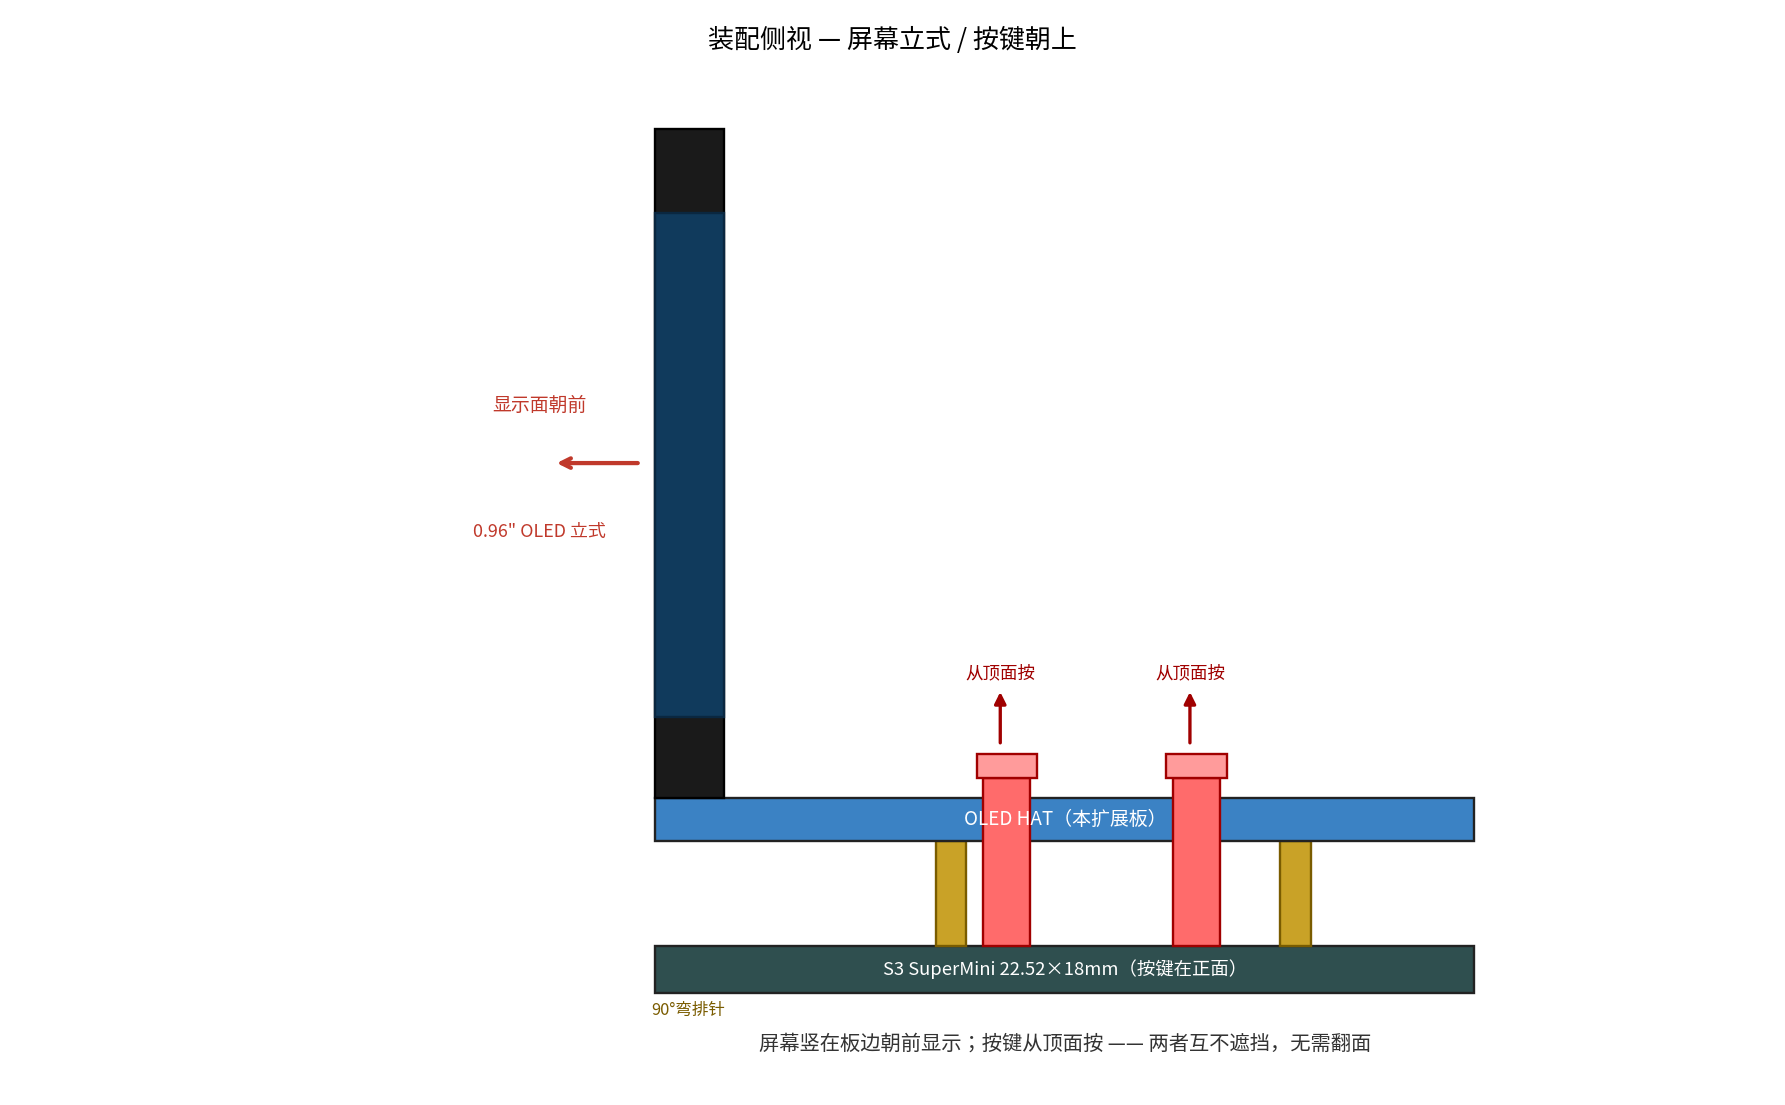
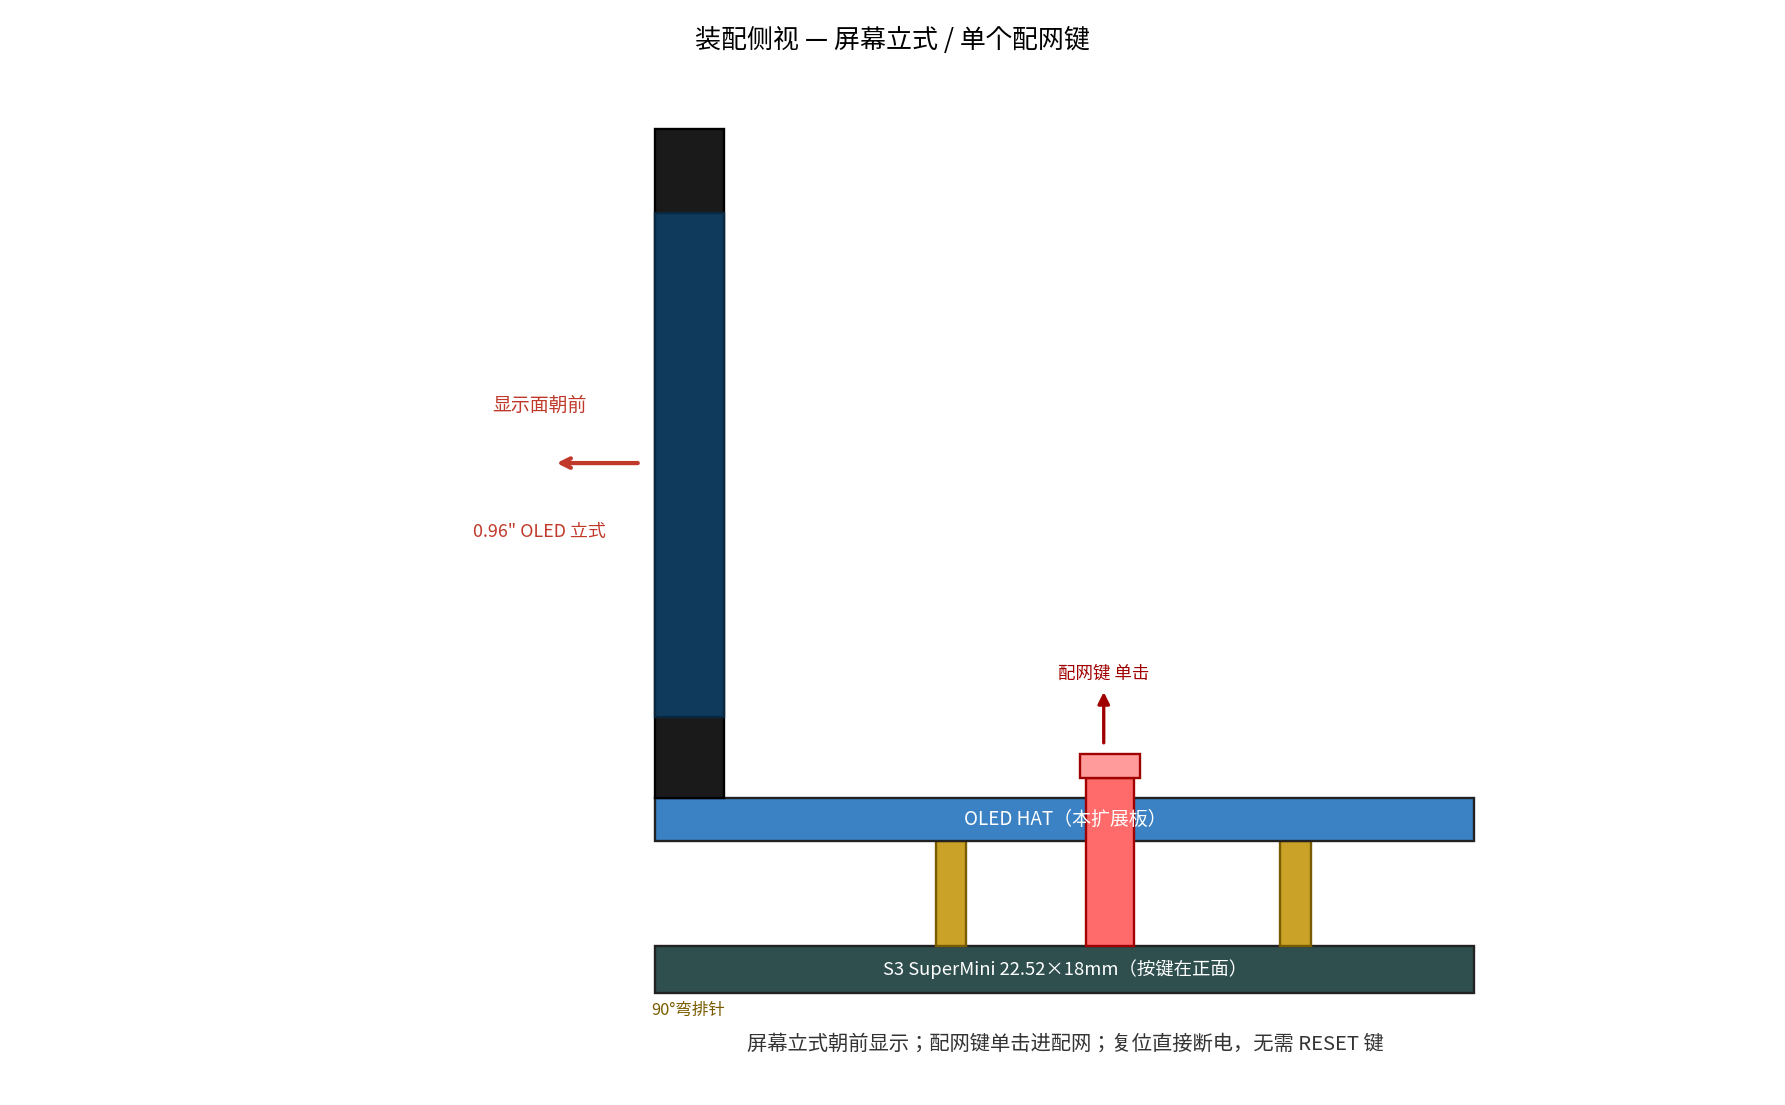
OLED扩展板去掉RESET键:复位靠断电,只留单个配网键
- BTN 从 RESET/BOOT 两键改为只剩 BOOT(标注CFG)一个配网键孔
- 复位不设按键,直接断电重新上电即可
- Gerber 钻孔 24->23(排针18+OLED4+配网键1),丝印标注 CFG
- 重绘顶视/装配侧视图,README 更新按键说明与焊接步骤
- 已复核 23 孔坐标唯一、5 层 Gerber 结束符规范

diff --git a/pcb-oled-hat/generate_pcb.py b/pcb-oled-hat/generate_pcb.py
@@ -10,13 +10,13 @@ QModem OLED HAT — ESP32-S3 SuperMini 专用 0.96" IIC OLED 扩展板
   下排(Y=+7.62,左->右): TX RX 1 2 3 4 5 6 7
   注: 数字即 GPIO 号(IO1~IO13),TX/RX 为 USB 转串口占用,避免占用
 
-扩展板设计(屏幕立式,让开正面按键):
+扩展板设计(屏幕立式,只引出一个配网键):
   - 覆盖底板的 22.52x18 主体 + Y-端延伸 4mm 作为 OLED 立式焊盘区
   - OLED 用 90° 弯排针竖立在板边,显示面朝板外(水平方向可见),
-    屏幕不再平铺在正面,RESET/BOOT 按键区完全露出不被遮挡
-  - RESET(EN)/BOOT(GPIO0) 未引到排针,故开两个 Φ3.4 孔对准板上贴片按键,
-    附按键帽 STL 粘在贴片按键上穿出孔,实现壳体按键手感
-  - 若坚持屏幕平放: 只能平放正面(背面朝底板会挡显示且装不下),故采用立式
+    屏幕不再平铺在正面,按键区完全露出不被遮挡
+  - 复位靠断电(拔电/断电重启)实现,不设 RESET 按键
+  - BOOT(GPIO0) 未引到排针,故开 1 个 Φ3.4 孔对准板上贴片 BOOT 按键,
+    附按键帽 STL 粘在贴片按键上穿出孔,单击即进 WiFi 配网
   - OLED 接线: VCC<-3V3, GND<-GND, SCL<-IO9, SDA<-IO8 (与固件 s3mini_oled_096 一致)
 """
 import os
@@ -51,7 +51,8 @@ headers = [(x, -HY, TOP[i]) for i, x in enumerate(XS)] + \
           [(x, +HY, BOT[i]) for i, x in enumerate(XS)]
 
 # 板上贴片按键中心(由尺寸网格图实测,板中心为原点)
-BTN = [(-3.90, -5.10, 'RESET'), (-3.90, +4.20, 'BOOT')]
+# 只引 BOOT 一个键作配网用;RESET 复位靠断电实现,不设按键孔
+BTN = [(-3.90, +4.20, 'CFG')]
 BTN_R = 1.70                   # Φ3.4 按键孔
 
 # OLED 4 焊盘(顶部延伸区,2.54 间距),用 90° 弯排针立式安装,显示面朝板外
@@ -158,9 +159,9 @@ for a, b in zip(outline, outline[1:]):
 for label, (px, py, name) in zip(['GND','3V3','SCL','SDA'], oled):
     for (x1, y1), (x2, y2) in text_segs(label, px - 1.1, py - 2.2, size=0.62):
         silk += segment(x1, y1, x2, y2, 13)
-# 按键孔标注:RESET / BOOT
-for (bx, by, name), label in zip(BTN, ['RST','BOOT']):
-    for (x1, y1), (x2, y2) in text_segs(label, bx - 1.3, by + 2.3, size=0.58):
+# 按键孔标注:用 name(配网键 CFG)
+for (bx, by, name) in BTN:
+    for (x1, y1), (x2, y2) in text_segs(name, bx - 1.3, by + 2.3, size=0.58):
         silk += segment(x1, y1, x2, y2, 13)
 # 排针丝印(上排/下排,沿板外方向排布)
 for x, y, n in headers:
@@ -251,13 +252,13 @@ for px in [9.5, 17.5]:
 # 扩展板 HAT
 ax.add_patch(Rectangle((3, 3.54), 19, 1.0, facecolor='#3b82c4', edgecolor='#222', lw=1))
 ax.text(12.5, 4.04, 'OLED HAT（本扩展板）', fontsize=8, ha='center', va='center', color='white')
-# 按键帽:从底板贴片按键穿出扩展板孔,朝上露出
-for px in [10.6, 15.0]:
-    ax.add_patch(Rectangle((px, 1.1), 1.1, 3.9, facecolor='#ff6b6b', edgecolor='#a00000'))
-    ax.add_patch(Rectangle((px - 0.15, 5.0), 1.4, 0.55, facecolor='#ff9b9b', edgecolor='#a00000'))
-    ax.annotate('', xy=(px + 0.4, 7.1), xytext=(px + 0.4, 5.7),
-                arrowprops=dict(arrowstyle='-|>', color='#a00000', lw=1.4))
-    ax.text(px + 0.4, 7.3, '从顶面按', fontsize=7.4, ha='center', color='#a00000')
+# 配网键帽:从底板 BOOT 贴片按键穿出扩展板孔,朝上露出(复位靠断电,不设 RESET 键)
+px = 13.0
+ax.add_patch(Rectangle((px, 1.1), 1.1, 3.9, facecolor='#ff6b6b', edgecolor='#a00000'))
+ax.add_patch(Rectangle((px - 0.15, 5.0), 1.4, 0.55, facecolor='#ff9b9b', edgecolor='#a00000'))
+ax.annotate('', xy=(px + 0.4, 7.1), xytext=(px + 0.4, 5.7),
+            arrowprops=dict(arrowstyle='-|>', color='#a00000', lw=1.4))
+ax.text(px + 0.4, 7.3, '配网键 单击', fontsize=7.4, ha='center', color='#a00000')
 # OLED 立式屏:90°弯排针焊在板左端焊盘,屏体竖立,显示面朝左(板外/前方)
 ax.add_patch(Rectangle((3, 4.54), 1.6, 15.5, facecolor='#1a1a1a', edgecolor='#000', lw=1))
 ax.add_patch(Rectangle((3, 6.4), 1.6, 11.7, facecolor='#103a5c', edgecolor='#0a2740'))  # 有效显示区
@@ -267,11 +268,11 @@ ax.text(0.3, 13.4, '显示面朝前', fontsize=8, ha='center', va='bottom', colo
 ax.text(0.3, 10.9, '0.96" OLED 立式', fontsize=7.6, ha='center', va='top', color='#c0392b')
 ax.text(2.9, -0.2, '90°弯排针', fontsize=7, ha='left', va='top', color='#7a5c00')
 # 说明
-ax.text(12.5, -1.3, '屏幕竖在板边朝前显示；按键从顶面按 —— 两者互不遮挡，无需翻面',
+ax.text(12.5, -1.3, '屏幕立式朝前显示；配网键单击进配网；复位直接断电，无需 RESET 键',
         fontsize=8.6, ha='center', color='#333')
 ax.set_xlim(-9, 26); ax.set_ylim(-2.0, 21.5)
 ax.set_aspect('equal'); ax.axis('off')
-ax.set_title('装配侧视 — 屏幕立式 / 按键朝上', fontsize=11, pad=8)
+ax.set_title('装配侧视 — 屏幕立式 / 单个配网键', fontsize=11, pad=8)
 plt.tight_layout()
 plt.savefig(os.path.join(HERE, 'preview_assembly.png'), dpi=170, facecolor='white')
 plt.close()

diff --git a/pcb-oled-hat/README.md b/pcb-oled-hat/README.md
@@ -1,14 +1,18 @@
 # QModem OLED HAT — ESP32-S3 SuperMini 专用扩展板
 
-一块插在 **ESP32-S3 SuperMini** 上的 0.96 寸 IIC OLED 扩展板。**屏幕立式安装**（竖在板边、显示面朝前），按键从顶面按——两者互不遮挡，不用翻面、不用飞线。
+一块插在 **ESP32-S3 SuperMini** 上的 0.96 寸 IIC OLED 扩展板。**屏幕立式安装**（竖在板边、显示面朝前），板顶只引出一个**配网键**（单击进 WiFi 配网）——两者互不遮挡，不用翻面、不用飞线。**复位靠断电（拔电重新上电）实现，不设 RESET 按键**。
 
 > ⚠ 适配板型：板面丝印 **`ESP32-S3 Super Mini`**、外形 **22.52 × 18 mm**、双排各 **9 孔**（排距 15.24 mm / 孔距 2.54 mm）。**不是** ESP32-C3 SuperMini（那是 8 孔一排），下单前务必核对你的板子。
 
 ## 为什么屏幕立式
 
-- **平放正面**（朝上）：0.96 OLED 模块约 27×27 mm，会盖住板上的 RESET/BOOT 贴片按键
+- **平放正面**（朝上）：0.96 OLED 模块约 27×27 mm，会盖住板上的 BOOT 贴片按键
 - **平放背面**（朝底板）：显示面贴着底板看不见，设备翻过来则按键朝下按不到
-- **立式**（本方案）：90° 弯排针把屏竖在板边，显示面朝前水平可见，按键从顶面直接按——**唯一能同时"看得见 + 按得到"的装法**
+- **立式**（本方案）：90° 弯排针把屏竖在板边，显示面朝前水平可见，配网键从顶面直接按——**唯一能同时"看得见 + 按得到"的装法**
+
+## 按键说明
+
+板上只引出一个**配网键 CFG**（对准底板的 BOOT/GPIO0 贴片按键）：**单击一下**即进入 WiFi 配网热点，用手机配置。复位不需要按键——**直接断电再上电**即可（等同于硬件 RESET）。
 
 ## 引脚连接
 
@@ -28,7 +32,7 @@
 | 板材 / 厚度 | FR-4 / **1.0 mm** |
 | 铜厚 | 1 oz |
 | 板子外形 | 22.52 × 26 mm（顶部延伸 8 mm 放 OLED 焊盘） |
-| 孔 | 排针孔 1.0 mm、按键孔 3.4 mm，共 24 个 |
+| 孔 | 排针孔 1.0 mm、配网键孔 3.4 mm，共 23 个 |
 | 阻焊 / 字符 | 绿油白字（任意） |
 | 数量 | 5 片起 |
 
@@ -39,10 +43,10 @@
 1. 把 **2×9 排针母座**焊在扩展板两排孔（插到底板用），焊盘在底层（B.Cu）。
 2. 把 **90° 弯排针**焊在顶部 4 个 OLED 焊盘，弯折方向朝板外（让屏竖起后显示面朝前）。
 3. 把 0.96 OLED 模块插到弯排针上，屏体竖直，显示面朝外。
-4. 把两个 **按键帽**（`button_cap.stl`，可 3D 打印）用双面胶粘在底板 RESET/BOOT 贴片按键上，使其穿出扩展板两个 Φ3.4 孔、顶面略高于板面。
+4. 把 **1 个按键帽**（`button_cap.stl`，可 3D 打印）用双面胶粘在底板 BOOT 贴片按键上，使其穿出扩展板那个 Φ3.4 孔、顶面略高于板面（配网键）。复位不用按键，断电即可。
 5. 扩展板对准底板两排排针插下，插到底。
 
-> 若 BOOT/RESET 贴片按键位置与孔位有偏差（板子批次差异），改 `generate_pcb.py` 里的 `BTN` 坐标重跑即可。
+> 若 BOOT 贴片按键位置与孔位有偏差（板子批次差异），改 `generate_pcb.py` 里的 `BTN` 坐标重跑即可。
 
 ## 文件说明
 
@@ -52,8 +56,8 @@
 | `generated/*.gbr` | 5 层 Gerber：F.Cu / B.Cu / F.Mask / F.SilkS / Edge.Cuts |
 | `generated/*.drl` | Excellon 钻孔 |
 | `preview_top.png` | 顶层布线和孔位预览 |
-| `preview_assembly.png` | 装配侧视（屏幕立式 / 按键朝上） |
-| `button_cap.stl` | 按键帽，粘在贴片按键上穿出扩展板孔 |
+| `preview_assembly.png` | 装配侧视（屏幕立式 / 单个配网键朝上） |
+| `button_cap.stl` | 配网键帽，粘在 BOOT 贴片按键上穿出扩展板孔 |
 
 ## 配套固件
 
